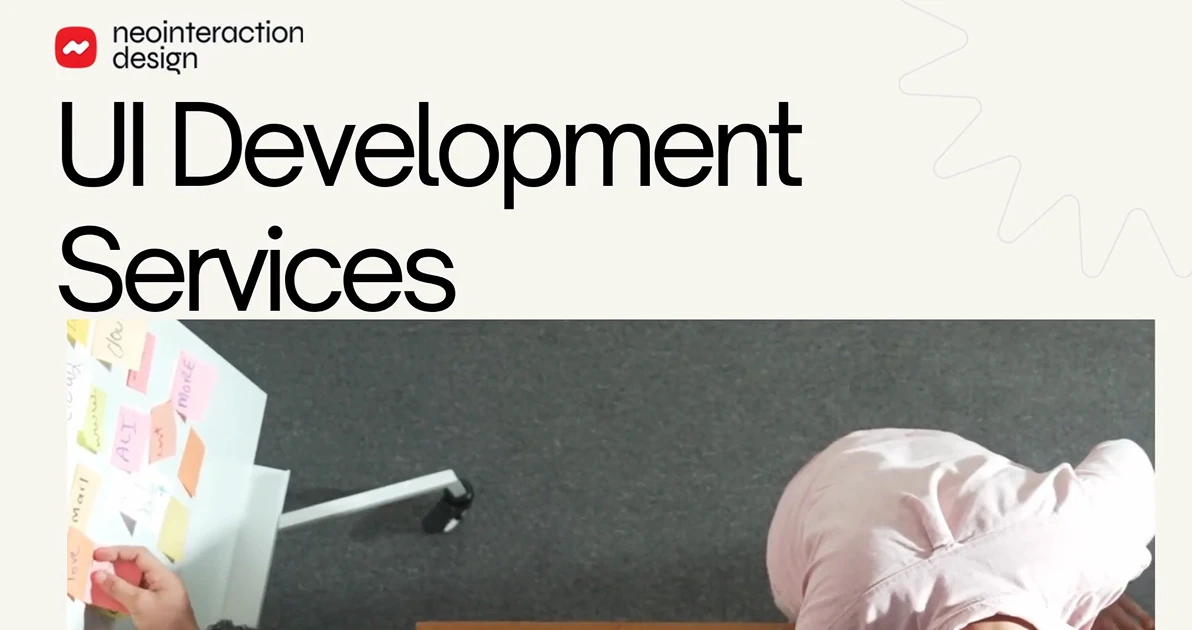
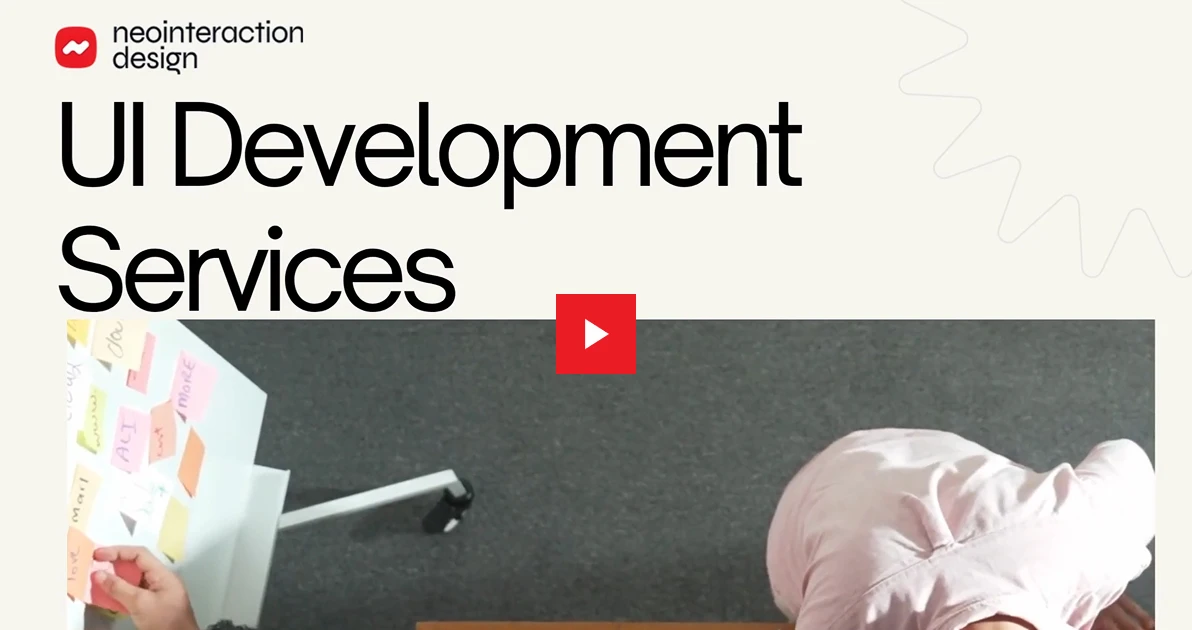
youtube thumbnail added for landing pages

Changed region(s): [[0.4656, 0.4524, 0.5587, 0.6032]]

diff --git a/front-end-development-services.php b/front-end-development-services.php
@@ -444,11 +444,12 @@ include_once 'includes/tracking-functions.php';
         <div class="container">
             <h2 class="section-title">Our Front-End Development Process</h2>
             <div class="video-container section-margin">
-                <iframe height="650" src="https://www.youtube-nocookie.com/embed/7MslRWZZ9qA?si=TaDeAtgk8dCEY1oY"
+                <!-- <iframe height="650" src="https://www.youtube-nocookie.com/embed/7MslRWZZ9qA?si=TaDeAtgk8dCEY1oY"
                     title="YouTube video player" style="border:0;width:100%;"
                     allow="accelerometer; autoplay; clipboard-write; encrypted-media; gyroscope; picture-in-picture; web-share"
                     referrerpolicy="strict-origin-when-cross-origin" allowfullscreen loading="lazy"
-                    style="border-radius: 0;"></iframe>
+                    style="border-radius: 0;"></iframe> -->
+                    <div class="youtube-lazy-load" data-id="7MslRWZZ9qA?si=TaDeAtgk8dCEY1oY"></div>
             </div>
         </div>
     </section>
@@ -478,6 +479,17 @@ include_once 'includes/tracking-functions.php';
     <script>
     <?php include 'includes/tracking-script.php'; ?>
     </script>
+     <script src="<?php echo $path; ?>assets/js/youtube-click-play.js" defer></script>
+    <style>
+    .youtube-lazy-load {
+        background-image: url(./assets/images/youtube/ui-development-process.webp) !important;
+    }
+    @media (max-width: 768px) {
+            .youtube-lazy-load {
+                background-image: url(./assets/images/youtube/ui-development-process-mobile.webp) !important;
+            }
+    }
+    </style>
     <script>
 
     document.getElementById("lp_name").addEventListener("input", function() {

diff --git a/ui-ux-design-usa.php b/ui-ux-design-usa.php
@@ -291,10 +291,7 @@ include_once 'includes/tracking-functions.php';
         <div class="container">
             <h2 class="section-title">Our UX Design Process</h2>
             <div class="video-container section-margin">
-                
-                <iframe width="100%" height="650" src="https://www.youtube-nocookie.com/embed/d_rEmpCVHAI?si=ZPQ5SxsTSvOkJsIW" title="YouTube video player" frameborder="0"
-                    allow="accelerometer; autoplay; clipboard-write; encrypted-media; gyroscope; picture-in-picture; web-share" referrerpolicy="strict-origin-when-cross-origin"
-                    allowfullscreen loading="lazy" style="border-radius: 0;"></iframe>
+                <div class="youtube-lazy-load" data-id="SSTsj85MzGU?si=B8pq4kK3-ExetQKL"></div>
             </div>
         </div>
     </section>
@@ -323,6 +320,17 @@ include_once 'includes/tracking-functions.php';
     <?php include $path.'includes/js.php'; ?>
     <script src="<?php echo $path; ?>assets/js/events.js"></script>
     <script><?php include 'includes/tracking-script.php'; ?></script>  
+    <script src="<?php echo $path; ?>assets/js/youtube-click-play.js" defer></script>
+    <style>
+    .youtube-lazy-load {
+        background-image: url(./assets/images/youtube/design-process.webp) !important;
+    }
+    @media (max-width: 768px) {
+            .youtube-lazy-load {
+                background-image: url(./assets/images/youtube/design-process-mobile.webp) !important;
+            }
+    }
+    </style>
     <script>
         document.getElementById("lp_name").addEventListener("input", function() {
             if (this.value.trim().length > 0 && /^\S+$/.test(this.value)) {

diff --git a/ux-design-services.php b/ux-design-services.php
@@ -366,12 +366,13 @@ include_once 'includes/tracking-functions.php';
             <h2 class="section-title">Our UX Design Process</h2>
             <div class="video-container section-margin">
 
-                <iframe width="100%" height="650"
+                <!-- <iframe width="100%" height="650"
                     src="https://www.youtube-nocookie.com/embed/SSTsj85MzGU?si=B8pq4kK3-ExetQKL"
                     title="YouTube video player" frameborder="0"
                     allow="accelerometer; autoplay; clipboard-write; encrypted-media; gyroscope; picture-in-picture; web-share"
                     referrerpolicy="strict-origin-when-cross-origin" allowfullscreen loading="lazy"
-                    style="border-radius: 0;"></iframe>
+                    style="border-radius: 0;"></iframe> -->
+                <div class="youtube-lazy-load" data-id="SSTsj85MzGU?si=B8pq4kK3-ExetQKL"></div>
             </div>
         </div>
     </section>
@@ -400,6 +401,17 @@ include_once 'includes/tracking-functions.php';
     <script>
     <?php include 'includes/tracking-script.php'; ?>
     </script>
+    <script src="<?php echo $path; ?>assets/js/youtube-click-play.js" defer></script>
+    <style>
+    .youtube-lazy-load {
+        background-image: url(./assets/images/youtube/design-process.webp) !important;
+    }
+    @media (max-width: 768px) {
+            .youtube-lazy-load {
+                background-image: url(./assets/images/youtube/design-process-mobile.webp) !important;
+            }
+    }
+    </style>
     <script>
 
     document.getElementById("lp_name").addEventListener("input", function() {

diff --git a/ui-ux-design-uae.php b/ui-ux-design-uae.php
@@ -334,11 +334,7 @@ include_once 'includes/tracking-functions.php';
         <div class="container">
             <h2 class="section-title">Our UX Design Process</h2>
             <div class="video-container section-margin">
-
-                <iframe width="100%" height="650" src="https://www.youtube-nocookie.com/embed/SSTsj85MzGU?si=B8pq4kK3-ExetQKL"
-                    title="YouTube video player" frameborder="0"
-                    allow="accelerometer; autoplay; clipboard-write; encrypted-media; gyroscope; picture-in-picture; web-share"
-                    referrerpolicy="strict-origin-when-cross-origin" allowfullscreen loading="lazy" style="border-radius: 0;"></iframe>
+                <div class="youtube-lazy-load" data-id="SSTsj85MzGU?si=B8pq4kK3-ExetQKL"></div>
             </div>
         </div>
     </section>
@@ -366,6 +362,17 @@ include_once 'includes/tracking-functions.php';
     <?php include $path.'includes/js.php'; ?>
     <script src="<?php echo $path; ?>assets/js/events.js"></script>
     <script><?php include 'includes/tracking-script.php'; ?></script>  
+    <script src="<?php echo $path; ?>assets/js/youtube-click-play.js" defer></script>
+    <style>
+    .youtube-lazy-load {
+        background-image: url(./assets/images/youtube/design-process.webp) !important;
+    }
+    @media (max-width: 768px) {
+            .youtube-lazy-load {
+                background-image: url(./assets/images/youtube/design-process-mobile.webp) !important;
+            }
+    }
+    </style>
     <script>
 
         document.getElementById("lp_name").addEventListener("input", function() {

diff --git a/banking-and-fintech-solutions.php b/banking-and-fintech-solutions.php
@@ -322,13 +322,7 @@ include_once 'includes/tracking-functions.php';
         <div class="container">
             <h2 class="section-title">Our Design Process</h2>
             <div class="video-container section-margin">
-
-                <iframe width="100%" height="650"
-                    src="https://www.youtube-nocookie.com/embed/SSTsj85MzGU?si=_lPo5JZDsP3tnIZR"
-                    title="YouTube video player" frameborder="0"
-                    allow="accelerometer; autoplay; clipboard-write; encrypted-media; gyroscope; picture-in-picture; web-share"
-                    referrerpolicy="strict-origin-when-cross-origin" allowfullscreen loading="lazy"
-                    style="border-radius: 0;"></iframe>
+            <div class="youtube-lazy-load" data-id="SSTsj85MzGU?si=B8pq4kK3-ExetQKL"></div>
             </div>
         </div>
     </section>
@@ -358,6 +352,17 @@ include_once 'includes/tracking-functions.php';
     <script>
     <?php include 'includes/tracking-script.php'; ?>
     </script>
+      <script src="<?php echo $path; ?>assets/js/youtube-click-play.js" defer></script>
+    <style>
+   .youtube-lazy-load {
+        background-image: url(./assets/images/youtube/design-process.webp) !important;
+    }
+    @media (max-width: 768px) {
+            .youtube-lazy-load {
+                background-image: url(./assets/images/youtube/design-process-mobile.webp) !important;
+            }
+    }
+    </style>
     <script>
     document.getElementById("lp_name").addEventListener("input", function() {
         if (this.value.trim().length > 0 && /^\S+$/.test(this.value)) {

diff --git a/product-design-services.php b/product-design-services.php
@@ -280,10 +280,7 @@ include_once 'includes/tracking-functions.php';
             <h2 class="section-title">Our Design Process</h2>
             <div class="video-container section-margin">
 
-                <iframe width="100%" height="650" src="https://www.youtube-nocookie.com/embed/SSTsj85MzGU?si=_lPo5JZDsP3tnIZR"
-                    title="YouTube video player" frameborder="0"
-                    allow="accelerometer; autoplay; clipboard-write; encrypted-media; gyroscope; picture-in-picture; web-share"
-                    referrerpolicy="strict-origin-when-cross-origin" allowfullscreen loading="lazy" style="border-radius: 0;"></iframe>
+            <div class="youtube-lazy-load" data-id="SSTsj85MzGU?si=B8pq4kK3-ExetQKL"></div>
             </div>
         </div>
     </section>
@@ -310,6 +307,17 @@ include_once 'includes/tracking-functions.php';
     <?php include $path.'includes/js.php'; ?>
     <script src="<?php echo $path; ?>assets/js/events.js"></script>
     <script><?php include 'includes/tracking-script.php'; ?></script>
+    <script src="<?php echo $path; ?>assets/js/youtube-click-play.js" defer></script>
+    <style>
+    .youtube-lazy-load {
+        background-image: url(./assets/images/youtube/design-process.webp) !important;
+    }
+    @media (max-width: 768px) {
+            .youtube-lazy-load {
+                background-image: url(./assets/images/youtube/design-process-mobile.webp) !important;
+            }
+    }
+    </style>
     <script>
         
         document.getElementById("lp_name").addEventListener("input", function() {

diff --git a/edtech-design-services.php b/edtech-design-services.php
@@ -286,11 +286,7 @@ include_once 'includes/tracking-functions.php';
         <div class="container">
             <h2 class="section-title">Our Design Process</h2>
             <div class="video-container section-margin">
-
-                <iframe width="100%" height="650" src="https://www.youtube-nocookie.com/embed/SSTsj85MzGU?si=_lPo5JZDsP3tnIZR"
-                    title="YouTube video player" frameborder="0"
-                    allow="accelerometer; autoplay; clipboard-write; encrypted-media; gyroscope; picture-in-picture; web-share"
-                    referrerpolicy="strict-origin-when-cross-origin" allowfullscreen loading="lazy" style="border-radius: 0;"></iframe>
+                <div class="youtube-lazy-load" data-id="SSTsj85MzGU?si=B8pq4kK3-ExetQKL"></div>
             </div>
         </div>
     </section>
@@ -316,6 +312,17 @@ include_once 'includes/tracking-functions.php';
     <?php include $path.'includes/js.php'; ?>
     <script src="<?php echo $path; ?>assets/js/events.js"></script>
     <script><?php include 'includes/tracking-script.php'; ?></script>
+    <script src="<?php echo $path; ?>assets/js/youtube-click-play.js" defer></script>
+    <style>
+     .youtube-lazy-load {
+        background-image: url(./assets/images/youtube/design-process.webp) !important;
+    }
+    @media (max-width: 768px) {
+            .youtube-lazy-load {
+                background-image: url(./assets/images/youtube/design-process-mobile.webp) !important;
+            }
+    }
+    </style>
     <script>
         
 

diff --git a/health-care-design-services.php b/health-care-design-services.php
@@ -293,9 +293,7 @@ include_once 'includes/tracking-functions.php';
         <div class="container">
             <h2 class="section-title">Our Design Process</h2>
             <div class="video-container section-margin">
-                <iframe src="https://www.youtube-nocookie.com/embed/SSTsj85MzGU?si=_lPo5JZDsP3tnIZR" title="YouTube video player"
-                    allow="accelerometer; autoplay; clipboard-write; encrypted-media; gyroscope; picture-in-picture; web-share" referrerpolicy="strict-origin-when-cross-origin"
-                    allowfullscreen loading="lazy" style="border-radius: 0;"></iframe>
+            <div class="youtube-lazy-load" data-id="SSTsj85MzGU?si=B8pq4kK3-ExetQKL"></div>
             </div>
         </div>
     </section>
@@ -324,6 +322,17 @@ include_once 'includes/tracking-functions.php';
     <script>
     <?php include 'includes/tracking-script.php'; ?>
     </script>
+      <script src="<?php echo $path; ?>assets/js/youtube-click-play.js" defer></script>
+    <style>
+    .youtube-lazy-load {
+        background-image: url(./assets/images/youtube/design-process.webp) !important;
+    }
+    @media (max-width: 768px) {
+            .youtube-lazy-load {
+                background-image: url(./assets/images/youtube/design-process-mobile.webp) !important;
+            }
+    }
+    </style>
         <script>
         document.getElementById("lp_name").addEventListener("input", function() {
             if (this.value.trim().length > 0 && /^\S+$/.test(this.value)) {

diff --git a/about-us.php b/about-us.php
@@ -298,11 +298,11 @@
     <script src="<?php echo $path; ?>assets/js/youtube-click-play.js" defer></script>
     <style>
     .youtube-lazy-load {
-        background-image: url(./assets/images/youtube/enterprise-product-design.webp) !important;
+        background-image: url(./assets/images/youtube/about-us.webp) !important;
     }
     @media (max-width: 768px) {
             .youtube-lazy-load {
-                background-image: url(./assets/images/youtube/enterprise-product-design-mobile.webp) !important;
+                background-image: url(./assets/images/youtube/about-us-mobile.webp) !important;
             }
     }
     </style>

diff --git a/ux-design-audit.php b/ux-design-audit.php
@@ -356,7 +356,7 @@ include_once 'includes/tracking-functions.php';
      <script src="<?php echo $path; ?>assets/js/youtube-click-play.js" defer></script>
     <style>
     .youtube-lazy-load {
-        background-image: url(./assets/images/youtube/ux-audit-process-mobile.webp) !important;
+        background-image: url(./assets/images/youtube/ux-audit-process.webp) !important;
     }
     @media (max-width: 768px) {
             .youtube-lazy-load {

diff --git a/components/submit-enquiry.php b/components/submit-enquiry.php
@@ -4,7 +4,7 @@
     <div class="container">
       <div class="row ui-card hire-engineers">
         <!-- Image Column -->
-        <div class="col-md-6  img-container">
+        <div class="col-md-6  img-container d-none d-md-block">
           <img src="<?php echo $path; ?>assets/images/submit-projects.jpg" alt="Stylized illustration" class="img-fluid">
         </div>
 
